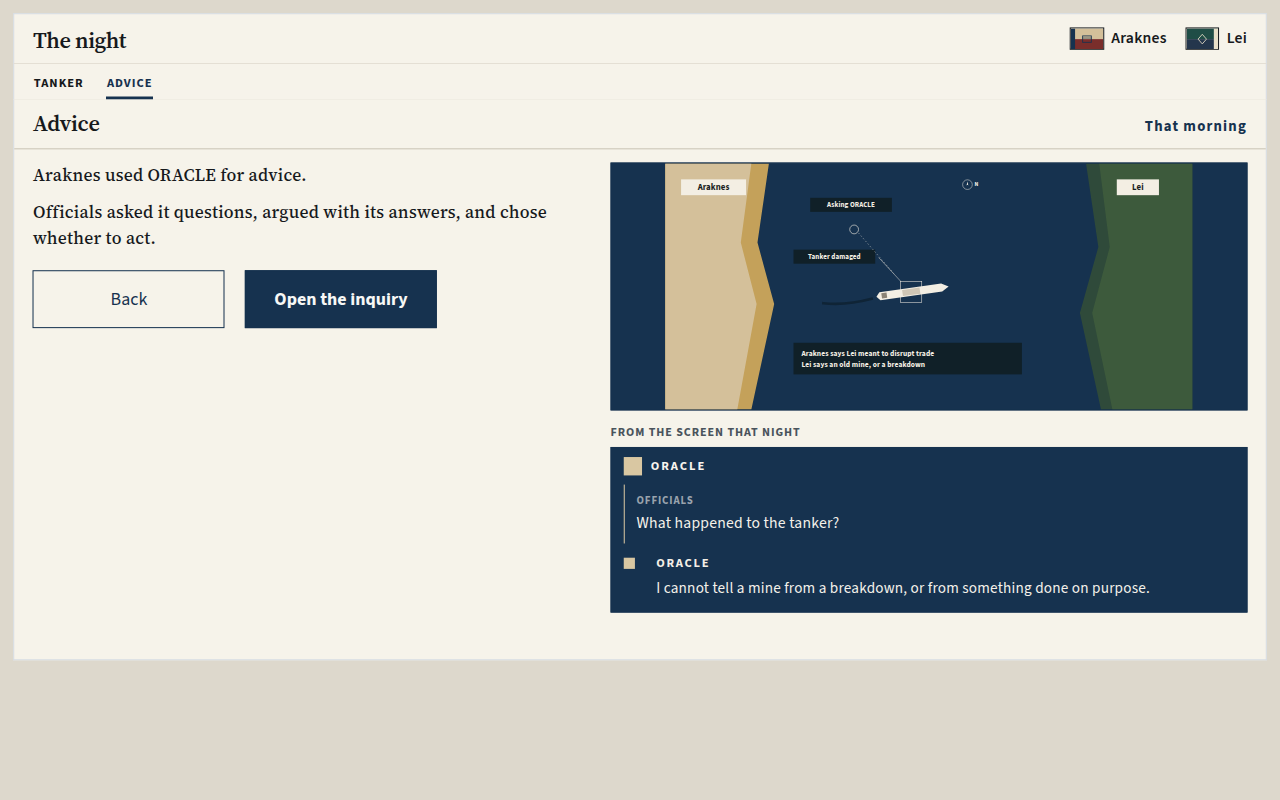
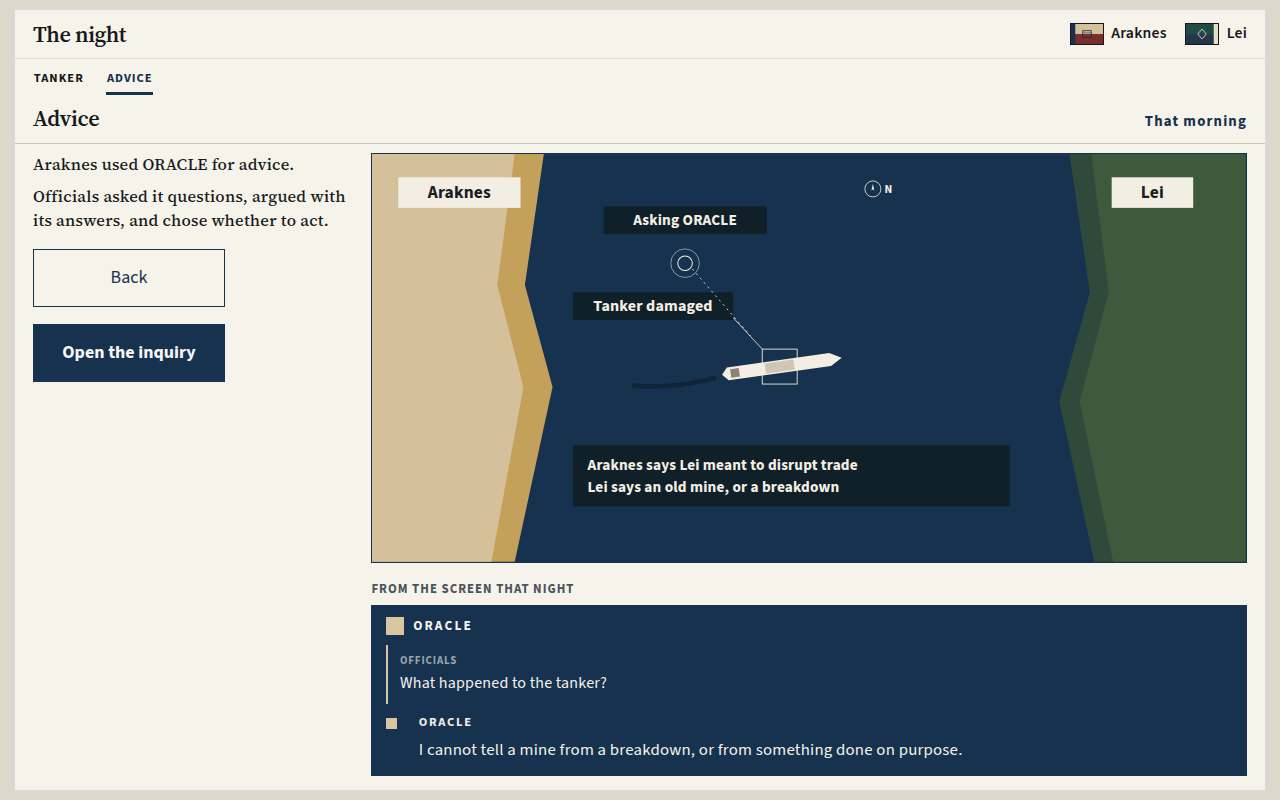
Give the night map the wide column and put the motion back.
Restore the SMIL pulses and dashed-path crawls that 29b5ca9 stripped
from route-sat.svg. Keep the flattened drawing. Size the map to the
visual column at 1280x800 so labels stay readable, and hide motion
when the sitting prefers reduced motion.

diff --git a/app/styles.css b/app/styles.css
@@ -31,10 +31,27 @@ body {
 .story-bar,
 .banner { display: none; }
 
-body[data-step="night"] .frame { padding-top: 0.85rem; padding-bottom: 1rem; }
+body[data-step="night"] .frame {
+  display: flex;
+  flex-direction: column;
+  min-height: 100vh;
+  padding-top: 0.55rem;
+  padding-bottom: 0.55rem;
+}
 
 body[data-step="night"] .paper {
+  display: flex;
+  flex-direction: column;
+  flex: 1;
+  min-height: 0;
   box-shadow: none;
+}
+
+body[data-step="night"] .sheet {
+  display: flex;
+  flex-direction: column;
+  flex: 1;
+  min-height: 0;
 }
 
 body[data-step="night"] .story-bar {
@@ -422,8 +439,12 @@ body[data-step="night"] .imprint { display: none; }
 #app { padding: 1.35rem 1.85rem 0.5rem; }
 
 body[data-step="night"] #app {
-  padding-top: 0.85rem;
-  padding-bottom: 0.35rem;
+  display: flex;
+  flex-direction: column;
+  flex: 1;
+  min-height: 0;
+  padding-top: 0.55rem;
+  padding-bottom: 0.4rem;
 }
 
 .opening {
@@ -511,10 +532,16 @@ body[data-step="night"] #app {
   to { transform: scaleX(1); }
 }
 
+@keyframes beat-in {
+  from { opacity: 0; }
+  to { opacity: 1; }
+}
+
 @media (prefers-reduced-motion: reduce) {
   .opening-rule,
   .opening-line,
-  .opening .primary {
+  .opening .primary,
+  .film-visual .sat {
     animation: none;
     opacity: 1;
     transform: none;
@@ -536,30 +563,36 @@ body[data-step="night"] #app {
 
 .film {
   display: grid;
-  grid-template-columns: minmax(17rem, 1fr) minmax(20rem, 1.15fr);
-  gap: 1rem 1.5rem;
-  align-items: start;
+  grid-template-columns: minmax(15rem, 20rem) minmax(0, 1fr);
+  gap: 0.75rem 1.15rem;
+  align-items: stretch;
+  flex: 1;
+  min-height: 0;
+  width: 100%;
 }
 
 .film-copy .prose p {
   max-width: none;
-  font-size: 1.08rem;
-  line-height: 1.5;
-  margin: 0 0 0.7rem;
+  font-size: 1.02rem;
+  line-height: 1.45;
+  margin: 0 0 0.55rem;
 }
 
 .film-copy .film-controls {
-  margin-top: 0.85rem;
+  margin-top: 0.7rem;
 }
 
 .film-visual {
   display: flex;
   flex-direction: column;
-  gap: 0.75rem;
+  gap: 0.55rem;
   min-width: 0;
+  min-height: 0;
 }
 
 .film-visual .plot {
+  flex: 1 1 auto;
+  min-height: 0;
   margin: 0;
 }
 
@@ -567,25 +600,39 @@ body[data-step="night"] #app {
   display: block;
   width: 100%;
   height: auto;
-  max-height: min(34vh, 15.5rem);
+  max-height: calc(100vh - 13.25rem);
+  animation: beat-in 0.4s ease both;
+}
+
+.film-visual.has-oracle .sat {
+  max-height: calc(100vh - 21.5rem);
 }
 
 .film-visual .shot figcaption {
-  margin-bottom: 0.3rem;
+  margin-bottom: 0.28rem;
+  font-size: 0.8rem;
 }
 
 .film-visual .oracle-chrome {
-  padding: 0.5rem 0.75rem 0.4rem;
+  padding: 0.55rem 0.85rem 0.4rem;
+}
+
+.film-visual .oracle-name {
+  font-size: 0.84rem;
 }
 
 .film-visual .oracle-body {
-  gap: 0.55rem;
-  padding: 0.1rem 0.75rem 0.75rem;
+  gap: 0.5rem;
+  padding: 0.1rem 0.85rem 0.75rem;
+}
+
+.film-visual .human p:last-child {
+  font-size: 1rem;
 }
 
 .film-visual .model-out p {
-  font-size: 0.95rem;
-  line-height: 1.4;
+  font-size: 1.05rem;
+  line-height: 1.45;
   margin-bottom: 0.3rem;
 }
 
@@ -738,7 +785,8 @@ body[data-step="night"] #app {
     max-width: 36rem;
   }
   .film { grid-template-columns: 1fr; }
-  .film-visual .sat { max-height: none; }
+  .film-visual .sat,
+  .film-visual.has-oracle .sat { max-height: none; }
 }
 
 @media (min-width: 1700px) {

diff --git a/app/game.js b/app/game.js
@@ -493,7 +493,7 @@ function night() {
     : null;
   return h("section", { class: "film" }, [
     copy,
-    h("div", { class: "film-visual" }, [plotBoard(scene.beat), side]),
+    h("div", { class: side ? "film-visual has-oracle" : "film-visual" }, [plotBoard(scene.beat), side]),
   ]);
 }
 

diff --git a/docs/change-timeline.md b/docs/change-timeline.md
@@ -71,6 +71,7 @@ Dates are UTC `createdAt` from GitHub for that capstone PR, plus `mergedAt` when
 | 2026-10-31 (this update) | PR 31, coach fixes | Dropped the inquiry line “The night is over. This is the inquiry.” Advice findings no longer store later-night `final_actions` / `outcome` `escalated` / `harm` true. Advice inquiry lead uses his file-panel line so it does not say ORACLE carried out the action. Missing or unknown `session_id` still rejected. | Tobyn approved these on this PR. | Same three stored versions. |
 | 2026-10-31 (this update) | PR 31, two-column laptop layout | Night: scene text and map/ORACLE sit side by side. Inquiry: questions and the file panel sit side by side. Two columns stay at 1280×800. A window under 1040px still stacks. No wording change. | Tobyn asked for the layout. | Same three stored versions. Screenshots below retaken at 1280×800. |
 | 2026-10-31 (this update) | PR 31, preview flag in wrangler.toml | `ENABLE_TWO_VERSIONS = "1"` is in `[env.preview.vars]`, not top-level `[vars]`. Pages preview deploys keep two versions on. The class host is Heroku and does not read this file. | Tobyn approved. Cloudflare Pages docs: top-level `[vars]` apply to local and production Pages. | Config only. |
+| 2026-10-31 (this update) | PR 31, map size and motion | Night map is the wide column at 1280×800. Labels are larger. The SMIL pulses and dashed-path crawls from before `29b5ca9` are back. Copy stays narrow. No wording change. | Tobyn: map was too small and motion looked gone. Diff: `29b5ca9` flattened `route-sat.svg` and dropped those `<animate>` tags. No hull-travel animation was in git. | Same three stored versions. Night screenshots retaken. |
 
 Presentations PR 5 (`tobyn-smith/presentations`, `ts/reading-discussion-weeks-930d`, `0902131`) is the source of the week files mapped in `docs/readings-to-design.md`. It is not a capstone game change.
 
@@ -95,7 +96,7 @@ Captured locally at `http://127.0.0.1:8000`, viewport 1280×800. No admin passph
 | Screen | Before | After |
 | --- | --- | --- |
 | Start | [style-before-start.png](screenshots/style-before-start.png) | [sequence-start.png](screenshots/sequence-start.png) |
-| Night (Lei moves) | [style-before-night.png](screenshots/style-before-night.png) | [sequence-night.png](screenshots/sequence-night.png) |
+| Night | [style-before-night.png](screenshots/style-before-night.png) (Lei moves, older stacked frame) | [sequence-night.png](screenshots/sequence-night.png) (upgrade, current two-column) |
 | Inquiry | [style-before-inquiry.png](screenshots/style-before-inquiry.png) | [sequence-inquiry.png](screenshots/sequence-inquiry.png) |
 | Debrief | [style-before-debrief.png](screenshots/style-before-debrief.png) | [sequence-debrief.png](screenshots/sequence-debrief.png) |
 
